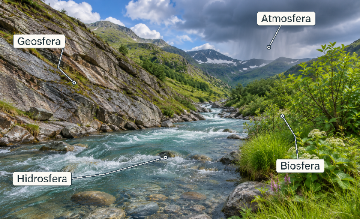
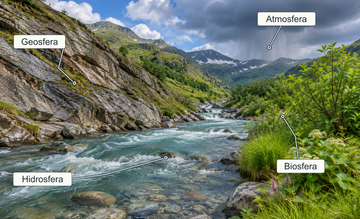
Redueix els rètols de les figures M001 (v0.1.44)

diff --git a/docs/continguts/terra-i-mapes.js b/docs/continguts/terra-i-mapes.js
@@ -45,9 +45,9 @@ window.quaderns ??= [];
         caption: 'Tall esquemàtic de la Terra. El gruix de les capes no està dibuixat a escala.',
         position: 'right',
         variants: {
-          pla: { src: 'illustracions/capes.png' },
-          volum: { src: 'illustracions/m001/capes.png', alt: 'Esfera de la Terra amb una porció retirada que mostra l’escorça, el mantell, el nucli extern i el nucli intern.' },
-          realista: { src: 'illustracions/m001/capes-realista.png', thumbnail: 'illustracions/m001/miniatures/capes-realista.png', alt: 'Terra en un cel estel·lar, amb un tall que mostra l’escorça, el mantell, el nucli extern i el nucli intern.' },
+          pla: { src: 'illustracions/capes.png?v=0.1.44' },
+          volum: { src: 'illustracions/m001/capes.png?v=0.1.44', alt: 'Esfera de la Terra amb una porció retirada que mostra l’escorça, el mantell, el nucli extern i el nucli intern.' },
+          realista: { src: 'illustracions/m001/capes-realista.png?v=0.1.44', thumbnail: 'illustracions/m001/miniatures/capes-realista.png?v=0.1.44', alt: 'Terra en un cel estel·lar, amb un tall que mostra l’escorça, el mantell, el nucli extern i el nucli intern.' },
         },
       },
       {
@@ -55,9 +55,9 @@ window.quaderns ??= [];
         alt: 'Tres límits entre plaques amb fletxes de separació, acostament i lliscament lateral.',
         caption: 'Les plaques tectòniques poden separar-se, acostar-se o lliscar de costat.',
         variants: {
-          pla: { src: 'illustracions/m001/moviment-pla.png' },
-          volum: { src: 'illustracions/m001/moviment-volum.png' },
-          realista: { src: 'illustracions/m001/moviment-realista.png', thumbnail: 'illustracions/m001/miniatures/moviment-realista.png', alt: 'Tres vinyetes de roca en perspectiva. Les fletxes mostren dues plaques que se separen, dues que s’acosten i formen una serralada, i dues que llisquen de costat.' },
+          pla: { src: 'illustracions/m001/moviment-pla.png?v=0.1.44' },
+          volum: { src: 'illustracions/m001/moviment-volum.png?v=0.1.44' },
+          realista: { src: 'illustracions/m001/moviment-realista.png?v=0.1.44', thumbnail: 'illustracions/m001/miniatures/moviment-realista.png?v=0.1.44', alt: 'Tres vinyetes de roca en perspectiva. Les fletxes mostren dues plaques que se separen, dues que s’acosten i formen una serralada, i dues que llisquen de costat.' },
         },
       },
       {
@@ -72,9 +72,9 @@ window.quaderns ??= [];
         alt: 'Tres fletxes, des de diferents punts de la superfície, apunten cap al centre de la Terra.',
         caption: 'En qualsevol punt de la superfície, la gravetat atrau els objectes cap al centre de la Terra.',
         variants: {
-          pla: { src: 'illustracions/m001/gravetat-pla.png' },
-          volum: { src: 'illustracions/m001/gravetat-volum.png?v=0.1.31', thumbnail: 'illustracions/m001/miniatures/gravetat-volum.png', alt: 'Tres fletxes van des de tres pilotes fins al punt Centre, visible entre les dues cares del tall de la Terra.' },
-          realista: { src: 'illustracions/m001/gravetat-realista.png', thumbnail: 'illustracions/m001/miniatures/gravetat-realista.png', alt: 'Tres fletxes van des de tres pilotes fins al punt Centre, visible entre les dues cares del tall de la Terra.' },
+          pla: { src: 'illustracions/m001/gravetat-pla.png?v=0.1.44' },
+          volum: { src: 'illustracions/m001/gravetat-volum.png?v=0.1.44', thumbnail: 'illustracions/m001/miniatures/gravetat-volum.png?v=0.1.44', alt: 'Tres fletxes van des de tres pilotes fins al punt Centre, visible entre les dues cares del tall de la Terra.' },
+          realista: { src: 'illustracions/m001/gravetat-realista.png?v=0.1.44', thumbnail: 'illustracions/m001/miniatures/gravetat-realista.png?v=0.1.44', alt: 'Tres fletxes van des de tres pilotes fins al punt Centre, visible entre les dues cares del tall de la Terra.' },
         },
       },
       {
@@ -82,9 +82,9 @@ window.quaderns ??= [];
         alt: 'Paisatge amb un riu, roca, cel amb pluja i vegetació a la riba.',
         caption: 'El riu connecta l’aigua, les roques, l’aire i els éssers vius.',
         variants: {
-          pla: { src: 'illustracions/m001/elements-pla.png' },
-          volum: { src: 'illustracions/m001/elements-volum.png' },
-          realista: { src: 'illustracions/m001/elements-realista.png', thumbnail: 'illustracions/m001/miniatures/elements-realista.png', alt: 'Paisatge de muntanya amb un vessant rocós, un riu, un cel amb pluja i plantes a la riba, retolats com a geosfera, hidrosfera, atmosfera i biosfera.' },
+          pla: { src: 'illustracions/m001/elements-pla.png?v=0.1.44' },
+          volum: { src: 'illustracions/m001/elements-volum.png?v=0.1.44' },
+          realista: { src: 'illustracions/m001/elements-realista.png?v=0.1.44', thumbnail: 'illustracions/m001/miniatures/elements-realista.png?v=0.1.44', alt: 'Paisatge de muntanya amb un vessant rocós, un riu, un cel amb pluja i plantes a la riba, retolats com a geosfera, hidrosfera, atmosfera i biosfera.' },
         },
       },
       {

diff --git a/docs/index.html b/docs/index.html
@@ -7,15 +7,15 @@
   <title>Món a mà · Apunts i materials per explorar el medi</title>
   <link rel="icon" type="image/png" sizes="32x32" href="assets/favicon.png?v=0.1.4">
   <link rel="apple-touch-icon" href="assets/mon-a-ma.png?v=0.1.4">
-  <link rel="stylesheet" href="estils.css?v=0.1.43">
-  <script src="interficie.js?v=0.1.43" defer></script>
-  <script src="continguts/terra-i-mapes.js?v=0.1.43" defer></script>
-  <script src="continguts/variants-terra-i-mapes.js?v=0.1.43" defer></script>
-  <script src="imprimible.js?v=0.1.43" defer></script>
-  <script src="preferencies.js?v=0.1.43" defer></script>
-  <script src="continguts/curriculum.js?v=0.1.43" defer></script>
-  <script src="mapa-curricular.js?v=0.1.43" defer></script>
-  <script src="app.js?v=0.1.43" defer></script>
+  <link rel="stylesheet" href="estils.css?v=0.1.44">
+  <script src="interficie.js?v=0.1.44" defer></script>
+  <script src="continguts/terra-i-mapes.js?v=0.1.44" defer></script>
+  <script src="continguts/variants-terra-i-mapes.js?v=0.1.44" defer></script>
+  <script src="imprimible.js?v=0.1.44" defer></script>
+  <script src="preferencies.js?v=0.1.44" defer></script>
+  <script src="continguts/curriculum.js?v=0.1.44" defer></script>
+  <script src="mapa-curricular.js?v=0.1.44" defer></script>
+  <script src="app.js?v=0.1.44" defer></script>
 </head>
 <body>
   <a class="skip" href="#main">Ves al contingut</a>
@@ -323,7 +323,7 @@
         <button type="button" id="reset-user" title="Restableix els ajustos de totes les fitxes, les plantilles, les col·leccions i les imatges pròpies.">Restableix preferències</button>
         <span id="reset-user-status" role="status"></span>
         <a href="https://github.com/aaronFortuno/mon-a-ma/blob/main/license.md">MIT</a>
-        <button type="button" data-dialog="release" aria-haspopup="dialog" aria-label="v0.1.43 · Historial de versions">v0.1.43</button>
+        <button type="button" data-dialog="release" aria-haspopup="dialog" aria-label="v0.1.44 · Historial de versions">v0.1.44</button>
         <button type="button" data-dialog="about" aria-haspopup="dialog" aria-label="V4V · Sobre el projecte">V4V</button>
       </nav>
     </div>
@@ -334,6 +334,10 @@
       <form method="dialog"><button type="submit" class="icon-button" aria-label="Tanca" autofocus><svg viewBox="0 0 24 24" aria-hidden="true"><path d="m6 6 12 12M18 6 6 18"/></svg></button></form>
     </div>
     <div class="dialog-content">
+      <h3>v0.1.44</h3>
+      <ul>
+        <li>Ajusta a 12 pt la retolació de les figures principals d’El planeta Terra als tres estils i concreta les amplades d’impressió a la pauta.</li>
+      </ul>
       <h3>v0.1.43</h3>
       <ul>
         <li>Marca El planeta Terra com a material definitiu i mostra a les targetes la imatge per defecte del primer apartat.</li>

diff --git a/encarrec-illustracions-mon-a-ma.md b/encarrec-illustracions-mon-a-ma.md
@@ -11,14 +11,21 @@ Per a cada tema, acorda els lots, les figures que comparteixen i les referèncie
 - **Ordre dels lots.** Presenta els estils del més esquemàtic al més detallat o realista. L’última imatge disponible de cada figura és la que s’obre per defecte a la fitxa. Situa al final l’estil que vulguis que s’hi mostri d’entrada, per exemple Pla, Volum, Realista.
 - **Finalitat.** Fes il·lustracions que ajudin l’alumnat de 10–11 anys a entendre o aplicar el que explica el text. Fes evident d’un cop d’ull què s’ha d’observar.
 - **Estil.** Atles escolar contemporani. Fons blanc llis, formes netes, línia fina però visible, masses de color suaus i contorns foscos. Fes servir blau per a l’aigua, verd i ocre per al terreny i un accent teula per destacar un element. Mantén la coherència amb la referència escollida. Reserva la fotografia o la textura per als encàrrecs que les demanin.
-- **Lectura impresa.** Comprova cada imatge a l’amplada A4 indicada a la taula. Fes servir una tipografia de pal sec amb accents correctes i etiquetes clau d’almenys 9 pt a la mida d’impressió. Combina el color amb el gruix del traç, els patrons o els símbols perquè també es pugui interpretar en grisos.
-- **Retolació.** Afegeix els noms, els números i les llegendes en una capa de text, amb els literals catalans indicats. La fitxa ja hi posa el peu i el títol. Deixa un marge net al voltant del contingut i dona més espai als elements que cal llegir.
+- **Lectura impresa.** Comprova cada imatge a escala real en un A4 vertical, a l’amplada que li correspon pel seu ordre dins de l’apartat. Fes servir una tipografia de pal sec amb accents correctes. Pren 11–13 pt com a punt de partida per als rètols i mantén les etiquetes clau a 9 pt o més. Combina el color amb el gruix del traç, els patrons o els símbols perquè la figura també es pugui interpretar en grisos.
+- **Retolació.** Dimensiona els noms, els números i les llegendes per a l’amplada final abans de dibuixar la figura. Si una figura passa del 50 % al 100 %, reajusta la capa de text perquè els rètols mantinguin el cos previst a l’A4. Fes servir els literals catalans indicats i deixa un marge net al voltant del contingut. La fitxa ja hi posa el peu i el títol.
 - **Precisió.** Construeix les graelles i els plànols amb geometria controlada. Munta els mapes geogràfics a partir de dades verificables. Pots generar motius purament visuals quan el brief ho indiqui. Per als elements que expressen posició, escala, relleu o fronteres, dibuixa o renderitza les dades i valida-les abans d’exportar.
 - **Lliurament.** Exporta la il·lustració en PNG RGB amb perfil sRGB. Conserva en SVG els esquemes vectorials que hagin de mantenir traços i text nítids. Per a una fotografia, conserva el JPEG i anota font, autoria i permís d’ús. Lliura miniatures lleugeres per als selectors quan es demanin. Les rutes parteixen de l’arrel del repositori `mon-a-ma`. Crea la carpeta si cal. Mantén els noms i les ubicacions exactes. L’encàrrec és de producció d’imatges. La incorporació de les rutes al catàleg i la publicació són passos posteriors.
 
 ## Fitxers i encaix a les fitxes
 
-Amb marges laterals de 20 mm, l’A4 té 170 mm d’amplada útil. La primera figura de cada apartat ocupa el 100 %. Les complementàries ocupen el 50 % (85 mm) per defecte, alternen esquerra i dreta i s’ancoren a un paràgraf amb text envoltant, si n’hi ha un de disponible. Dissenya la retolació per a l’amplada que tindrà la figura impresa. Per a nous arxius de mapa de bits, preveu uns 2.000 px d’amplada per a figures principals i uns 1.000 px per a figures complementàries.
+En un A4 vertical amb marges laterals de 20 mm, l’amplada útil és de 170 mm.
+
+| Ordre dins de cada apartat | Amplada útil per defecte | Amplada impresa | Amplada orientativa del PNG |
+| --- | --- | --- | --- |
+| Primera figura | 100 % | 170 mm | 2.000 px |
+| Segona figura i següents | 50 % | 85 mm | 1.000 px |
+
+Les figures complementàries alternen esquerra i dreta i s’ancoren a un paràgraf amb text envoltant, si n’hi ha un de disponible. A les resolucions de la taula, un cos de 12 pt a la impressió correspon a uns 50 px al fitxer. Si les dimensions de l’arxiu són diferents, reajusta el cos proporcionalment i comprova’l a l’amplada impresa.
 
 | Fitxa | Figures diferents | Lots i arxius previstos |
 | --- | --- | --- |

diff --git a/CHANGELOG.md b/CHANGELOG.md
@@ -1,5 +1,9 @@
 # Historial de versions
 
+## 0.1.44 · 27 de novembre de 2026
+
+- Ajusta a 12 pt la retolació de les figures principals d’El planeta Terra als tres estils i concreta les amplades d’impressió a la pauta.
+
 ## 0.1.43 · 27 de novembre de 2026
 
 - Marca El planeta Terra com a material definitiu i mostra a les targetes la imatge per defecte del primer apartat.
